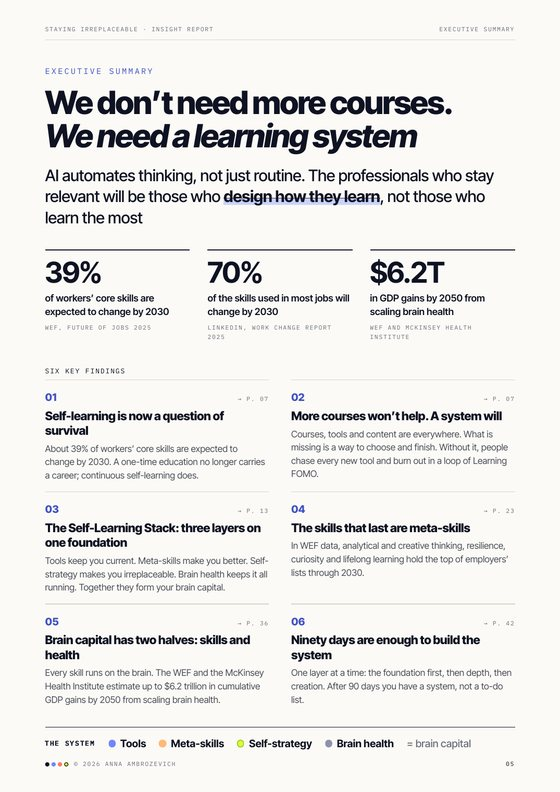
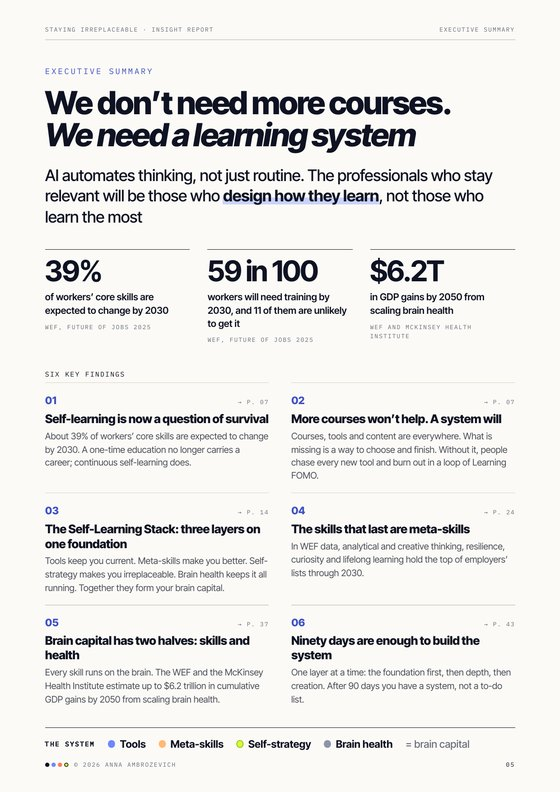
Align figures with report sources: drop LinkedIn and IMF stats, refresh exec summary preview
Claude-Session: https://claude.ai/code/session_01K89y6qL3XHTAfyQTfDCDNU

diff --git a/human-os-preview-k7q2/index.html b/human-os-preview-k7q2/index.html
@@ -69,7 +69,7 @@ a{color:#0E1222}a:hover{color:#3F51C4}
 <div style="display: grid; grid-template-columns: repeat(auto-fit, minmax(240px, 1fr)); gap: 24px; margin-top: 44px;">
 <div style="border-top: 2px solid #0E1222; padding-top: 18px;"><p style="margin: 0; font-size: 46px; font-weight: 800; letter-spacing: -0.04em;">39%</p><p style="margin: 8px 0 0; font-size: 16.5px; line-height: 1.5;">ключевых навыков работников изменится к 2030 году</p><p style="margin: 10px 0 0; font-family: 'IBM Plex Mono', monospace; font-size: 11px; color: #5C606C;">WEF, Future of Jobs 2025</p></div>
 <div style="border-top: 2px solid #0E1222; padding-top: 18px;"><p style="margin: 0; font-size: 46px; font-weight: 800; letter-spacing: -0.04em;">59 → 11</p><p style="margin: 8px 0 0; font-size: 16.5px; line-height: 1.5;">из 100 работников 59 понадобится переобучение к 2030 году, и 11 из них его, скорее всего, не получат</p><p style="margin: 10px 0 0; font-family: 'IBM Plex Mono', monospace; font-size: 11px; color: #5C606C;">WEF, Future of Jobs 2025</p></div>
-<div style="border-top: 2px solid #0E1222; padding-top: 18px;"><p style="margin: 0; font-size: 46px; font-weight: 800; letter-spacing: -0.04em;">~40%</p><p style="margin: 8px 0 0; font-size: 16.5px; line-height: 1.5;">рабочих мест в мире подвержены влиянию ИИ, в развитых экономиках около 60%</p><p style="margin: 10px 0 0; font-family: 'IBM Plex Mono', monospace; font-size: 11px; color: #5C606C;">МВФ, 2024</p></div>
+<div style="border-top: 2px solid #0E1222; padding-top: 18px;"><p style="margin: 0; font-size: 46px; font-weight: 800; letter-spacing: -0.04em;">22%</p><p style="margin: 8px 0 0; font-size: 16.5px; line-height: 1.5;">сегодняшних рабочих мест затронет создание и исчезновение профессий в 2025–2030 годах</p><p style="margin: 10px 0 0; font-family: 'IBM Plex Mono', monospace; font-size: 11px; color: #5C606C;">WEF, Future of Jobs 2025</p></div>
 <div style="border-top: 2px solid #0E1222; padding-top: 18px;"><p style="margin: 0; font-size: 46px; font-weight: 800; letter-spacing: -0.04em;">37%</p><p style="margin: 8px 0 0; font-size: 16.5px; line-height: 1.5;">студентов сомневаются, что их программа актуальна для эпохи ИИ (27 000 студентов, 35 стран)</p><p style="margin: 10px 0 0; font-family: 'IBM Plex Mono', monospace; font-size: 11px; color: #5C606C;">Digital Education Council, 2026</p></div>
 </div>
 
@@ -208,7 +208,7 @@ a{color:#0E1222}a:hover{color:#3F51C4}
 </div>
 <div style="border: 1px solid #D9D3C6; border-radius: 18px; padding: 24px 28px; box-sizing: border-box;">
 <p style="margin: 0; font-family: 'IBM Plex Mono', monospace; font-size: 12px; letter-spacing: 0.14em; text-transform: uppercase; color: #5C606C;">Данные</p>
-<p style="margin: 10px 0 0; font-size: 15.5px; line-height: 1.55;">WEF, Future of Jobs 2025 · МВФ, 2024 · LinkedIn, Work Change Report 2025 · Digital Education Council, 2026 · JAMA Network Open, 2023</p>
+<p style="margin: 10px 0 0; font-size: 15.5px; line-height: 1.55;">WEF, Future of Jobs 2025 · Digital Education Council, 2026 · JAMA Network Open, 2023</p>
 </div>
 </div>
 </div>

diff --git a/natural-intelligence-preview-r5t9/index.html b/natural-intelligence-preview-r5t9/index.html
@@ -69,7 +69,7 @@ a{color:#0E1222}a:hover{color:#3F51C4}
 <div style="display: grid; grid-template-columns: repeat(auto-fit, minmax(240px, 1fr)); gap: 24px; margin-top: 44px;">
 <div style="border-top: 2px solid #0E1222; padding-top: 18px;"><p style="margin: 0; font-size: 46px; font-weight: 800; letter-spacing: -0.04em;">39%</p><p style="margin: 8px 0 0; font-size: 16.5px; line-height: 1.5;">ключевых навыков работников изменится к 2030 году</p><p style="margin: 10px 0 0; font-family: 'IBM Plex Mono', monospace; font-size: 11px; color: #5C606C;">WEF, Future of Jobs 2025</p></div>
 <div style="border-top: 2px solid #0E1222; padding-top: 18px;"><p style="margin: 0; font-size: 46px; font-weight: 800; letter-spacing: -0.04em;">59 → 11</p><p style="margin: 8px 0 0; font-size: 16.5px; line-height: 1.5;">из 100 работников 59 понадобится переобучение к 2030 году, и 11 из них его, скорее всего, не получат</p><p style="margin: 10px 0 0; font-family: 'IBM Plex Mono', monospace; font-size: 11px; color: #5C606C;">WEF, Future of Jobs 2025</p></div>
-<div style="border-top: 2px solid #0E1222; padding-top: 18px;"><p style="margin: 0; font-size: 46px; font-weight: 800; letter-spacing: -0.04em;">~40%</p><p style="margin: 8px 0 0; font-size: 16.5px; line-height: 1.5;">рабочих мест в мире подвержены влиянию ИИ, в развитых экономиках около 60%</p><p style="margin: 10px 0 0; font-family: 'IBM Plex Mono', monospace; font-size: 11px; color: #5C606C;">МВФ, 2024</p></div>
+<div style="border-top: 2px solid #0E1222; padding-top: 18px;"><p style="margin: 0; font-size: 46px; font-weight: 800; letter-spacing: -0.04em;">22%</p><p style="margin: 8px 0 0; font-size: 16.5px; line-height: 1.5;">сегодняшних рабочих мест затронет создание и исчезновение профессий в 2025–2030 годах</p><p style="margin: 10px 0 0; font-family: 'IBM Plex Mono', monospace; font-size: 11px; color: #5C606C;">WEF, Future of Jobs 2025</p></div>
 <div style="border-top: 2px solid #0E1222; padding-top: 18px;"><p style="margin: 0; font-size: 46px; font-weight: 800; letter-spacing: -0.04em;">37%</p><p style="margin: 8px 0 0; font-size: 16.5px; line-height: 1.5;">студентов сомневаются, что их программа актуальна для эпохи ИИ (27 000 студентов, 35 стран)</p><p style="margin: 10px 0 0; font-family: 'IBM Plex Mono', monospace; font-size: 11px; color: #5C606C;">Digital Education Council, 2026</p></div>
 </div>
 
@@ -201,7 +201,7 @@ a{color:#0E1222}a:hover{color:#3F51C4}
 </div>
 <div style="border: 1px solid #D9D3C6; border-radius: 18px; padding: 24px 28px; box-sizing: border-box;">
 <p style="margin: 0; font-family: 'IBM Plex Mono', monospace; font-size: 12px; letter-spacing: 0.14em; text-transform: uppercase; color: #5C606C;">Данные</p>
-<p style="margin: 10px 0 0; font-size: 15.5px; line-height: 1.55;">WEF, Future of Jobs 2025 · МВФ, 2024 · LinkedIn, Work Change Report 2025 · Digital Education Council, 2026 · JAMA Network Open, 2023</p>
+<p style="margin: 10px 0 0; font-size: 15.5px; line-height: 1.55;">WEF, Future of Jobs 2025 · Digital Education Council, 2026 · JAMA Network Open, 2023</p>
 </div>
 </div>
 </div>

diff --git a/stack/index.html b/stack/index.html
@@ -445,7 +445,7 @@ a.btn.lime.gumroad-button,.reframe a.btn.gumroad-button{background:var(--lime)!i
   <p class="lead" style="margin-top:18px;max-width:62ch">AI automates thinking, not just routine. The professionals who stay relevant will be those who <b style="color:var(--navy)">design how they learn</b>, not those who learn the most.</p>
   <div class="stats">
     <div class="stat rv"><b>39%</b><p>of workers’ existing skills will be transformed or become outdated by 2030</p><small>WEF, Future of Jobs 2025</small></div>
-    <div class="stat rv"><b>70%</b><p>of the skills used in most jobs will change by 2030</p><small>LinkedIn, Work Change Report, 2025</small></div>
+    <div class="stat rv"><b>59 in 100</b><p>workers will need training by 2030, and 11 of them are unlikely to get it</p><small>WEF, Future of Jobs 2025</small></div>
     <div class="stat rv"><b>$6.2T</b><p>in cumulative GDP gains from scaling proven brain health interventions</p><small>WEF and McKinsey Health Institute, 2026</small></div>
   </div>
   <div class="findings">
